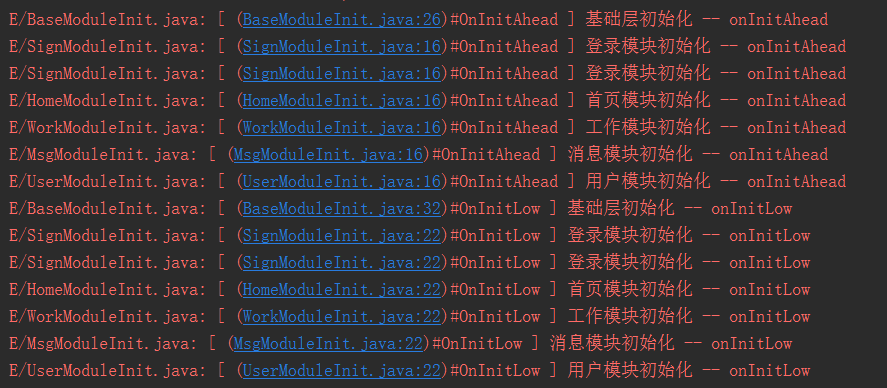
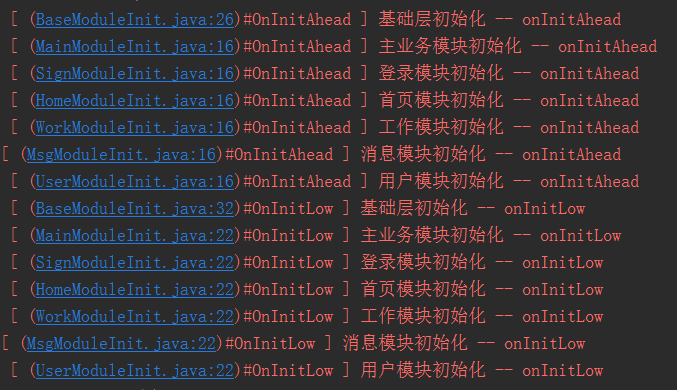
supplement
supplement

Changed region(s): [[0.0, 0.0309, 0.9926, 0.9897]]

diff --git a/library-base/src/main/java/com/goldze/base/config/ModuleLifecycleReflexs.java b/library-base/src/main/java/com/goldze/base/config/ModuleLifecycleReflexs.java
@@ -9,7 +9,7 @@ package com.goldze.base.config;
 public class ModuleLifecycleReflexs {
     private static final String BaseInit = "com.goldze.base.base.BaseModuleInit";
     //主业务模块
-    private static final String MainInit = "com.goldze.sign.SignModuleInit";
+    private static final String MainInit = "com.goldze.main.MainModuleInit";
     //登录验证模块
     private static final String SignInit = "com.goldze.sign.SignModuleInit";
     //首页业务模块

diff --git a/README.md b/README.md
@@ -375,7 +375,7 @@ public void onCreate() {
 
 <img src="./img/img6.png" width="480" hegiht="480" align=center />
 
-**小优化：**当组件独立运行时，宿主App不会执行onCreate方法，但是组件业务又需要初始化单独调试。常规做法是组件中单独定义Application，但这样每个组件都需要创建一个Application，比较繁琐。我们有了上述的初始化方法，可以在 **library-base** 中定义一个 **DebugApplication** ，debug包下的代码不参与编译，仅作为独立模块运行时初始化数据。最后记得在组件的调试版alone/AndroidManifest下指定为base中的 **DebugApplication**。
+**小优化：** 当组件独立运行时，宿主App不会执行onCreate方法，但是组件业务又需要初始化单独调试。常规做法是组件中单独定义Application，但这样每个组件都需要创建一个Application，比较繁琐。我们有了上述的初始化方法，可以在 **library-base** 中定义一个 **DebugApplication** ，debug包下的代码不参与编译，仅作为独立模块运行时初始化数据。最后记得在组件的调试版alone/AndroidManifest下指定为base中的 **DebugApplication**。
 
 ### 3.2、组件间通信
 > 组件间是完全无耦合的存在，但是在实际开发中肯定会存在业务交叉的情况，该如何实现无联系的组件间通信呢？
